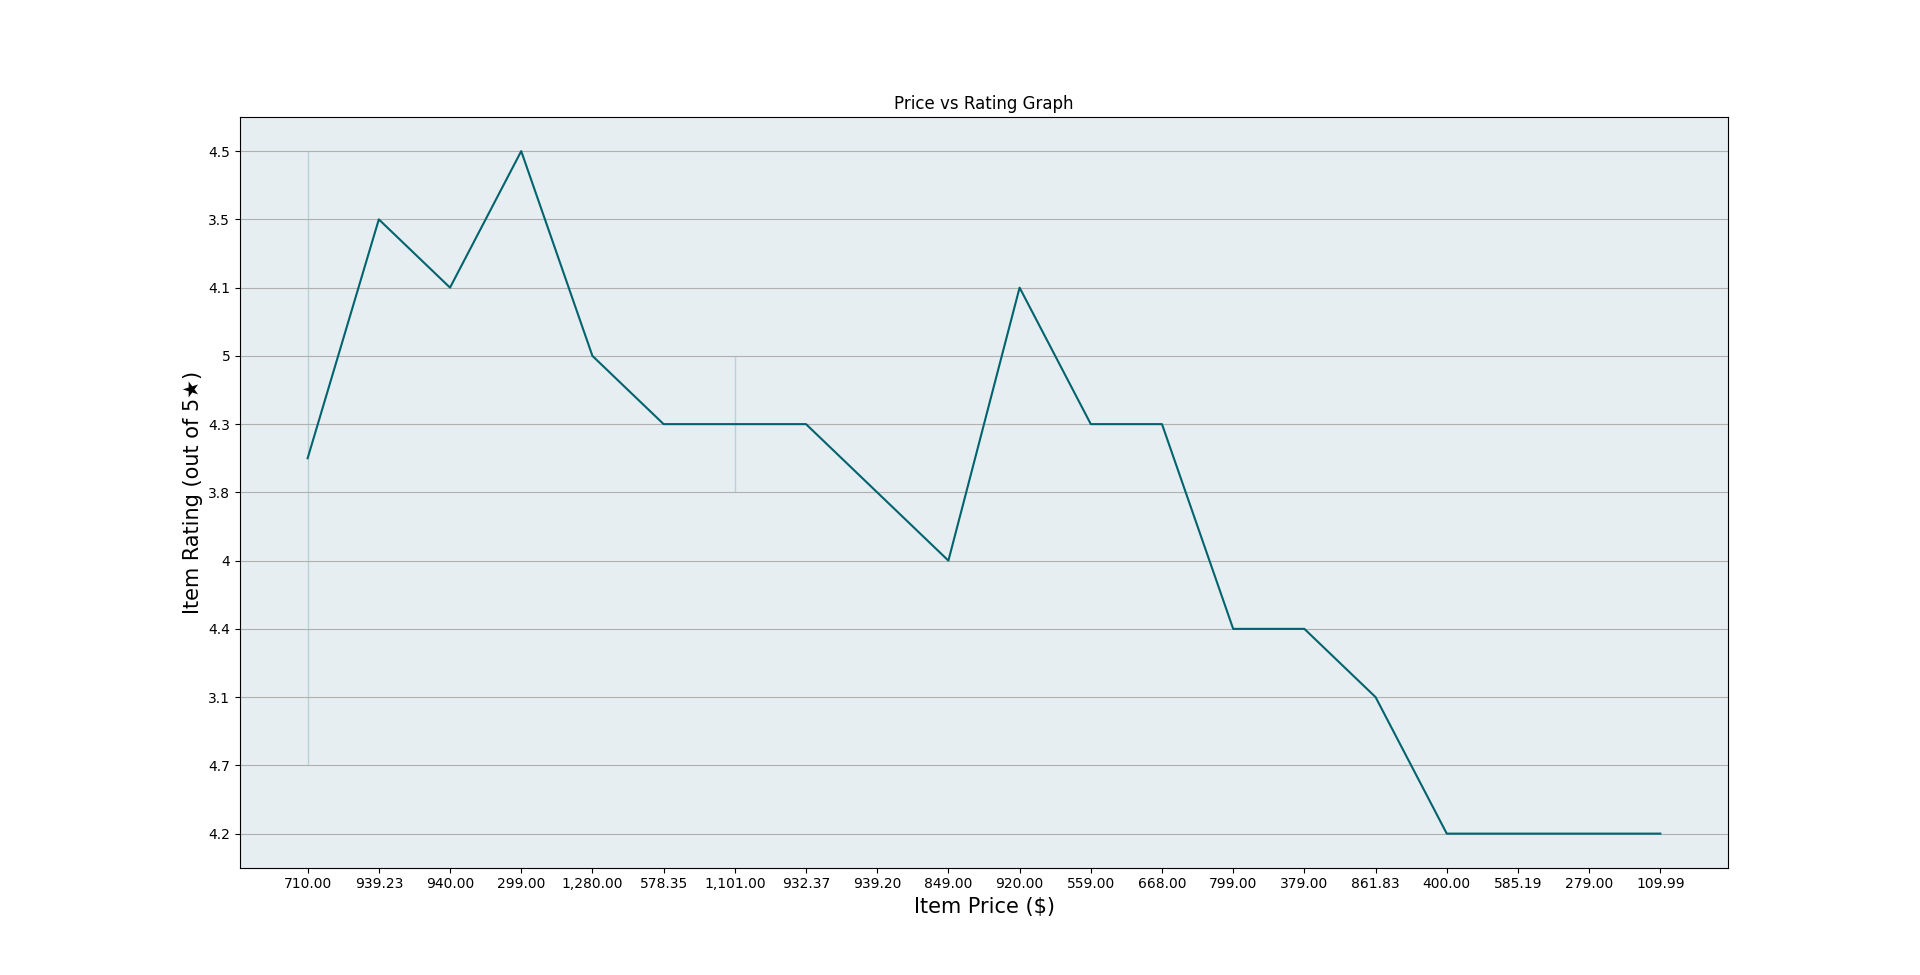
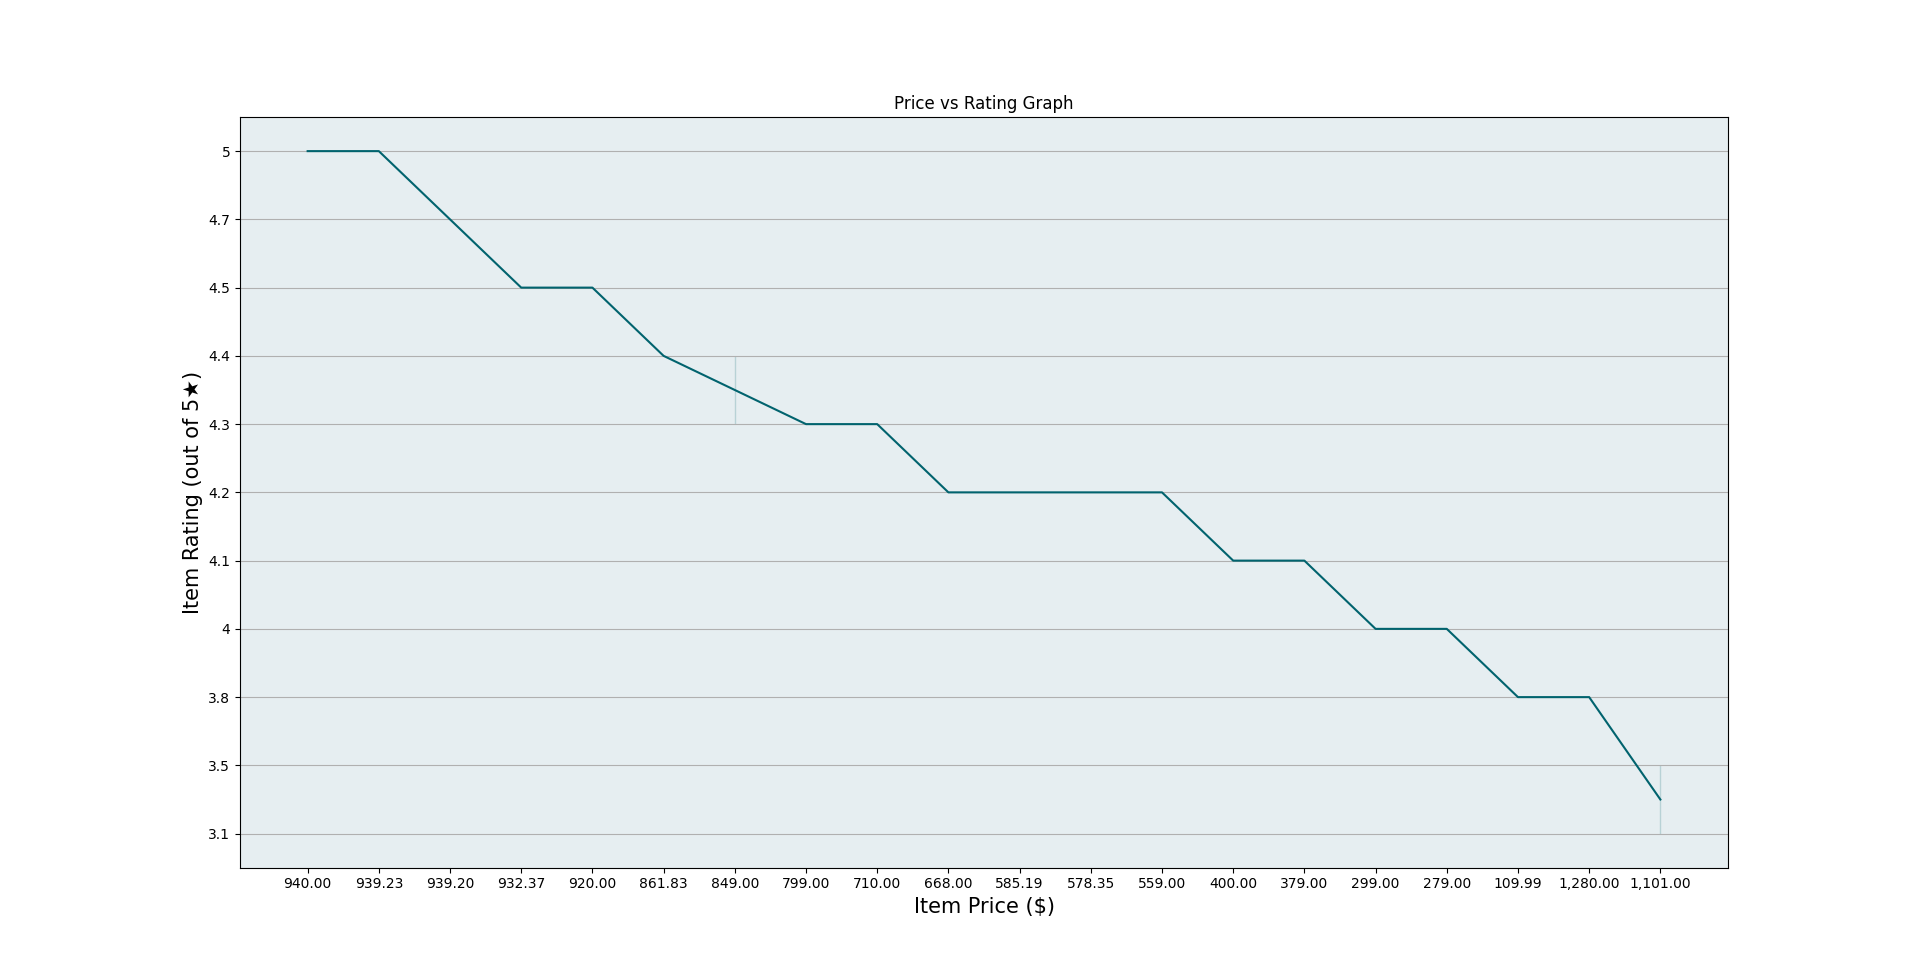
Unsorted lists fixed

diff --git a/Projects/Scraping-Amazon-Product-Search/src/visualization/visualize.py b/Projects/Scraping-Amazon-Product-Search/src/visualization/visualize.py
@@ -38,9 +38,10 @@ class DataAnalysis:
         for row in range(0, len(self.prices)):
             self.price_lists.append(self.prices[row].replace('$', ''))
 
+        self.rating_lists.sort(reverse=True)
+        self.price_lists.sort(reverse=True)
         print('-'*30, '\nRatings: ', self.rating_lists)
         print('Prices: ', self.price_lists, '\n', '-'*30, '\n')
-        pass
 
     def line_graph(self):
         # Axis Initialization
